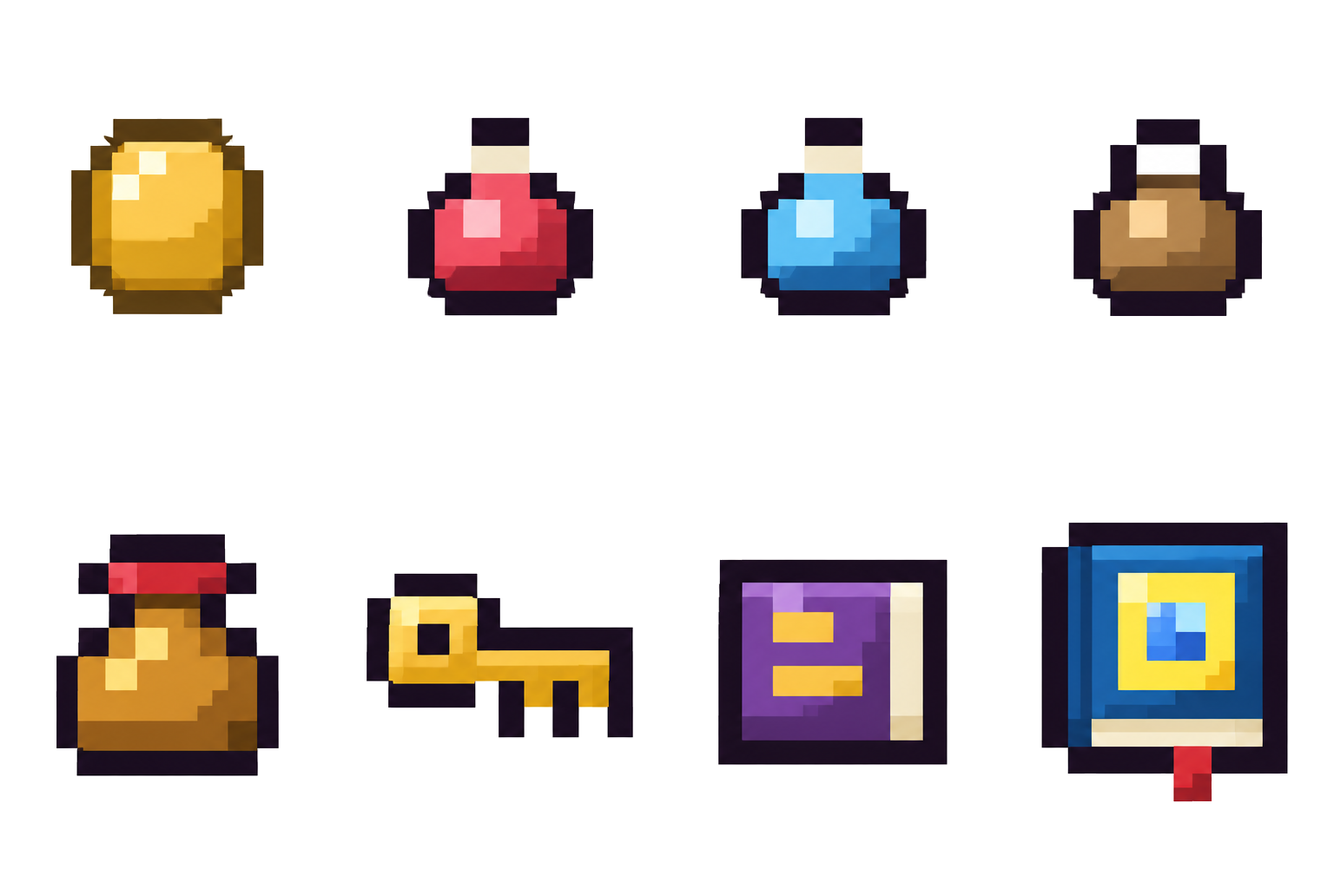
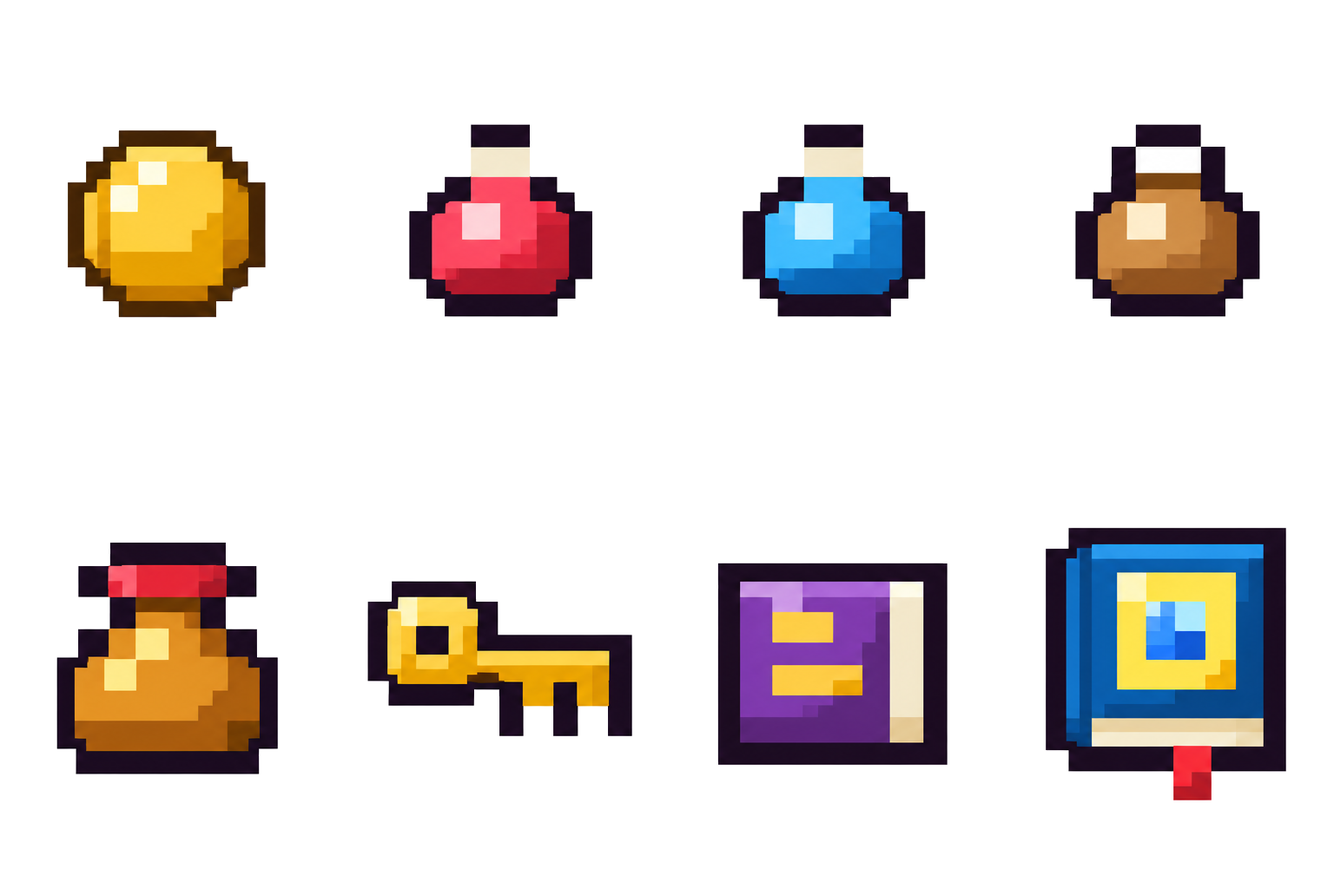
口袋地城：掉落物圖示重新美化，強化石／升級石縮成寶石大小，地上的裝備依類型顯示圖示

diff --git a/games/pocketdungeon/src/js/pd/itemSprites.js b/games/pocketdungeon/src/js/pd/itemSprites.js
@@ -10,4 +10,4 @@ import { unpack } from './spritePack.js';
  */
 export const ITEM_SPRITES = {};
 
-unpack(ITEM_SPRITES, {"coin":{"palette":{"a":"#5a3e13","b":"#705118","c":"#865e13","d":"#986511","e":"#a6700e","f":"#be8310","g":"#b28945","h":"#ce9415","i":"#bf992b","j":"#dba01e","k":"#e7b02d","l":"#fcc94f","m":"#fbd66d","n":"#fefbdd","o":"#1a1020"},"w":12,"h":12,"$r":[586,0,12,12]},"potion":{"palette":{"a":"#981f2f","b":"#b52839","c":"#bf2b3b","d":"#ce3142","e":"#db3b4b","f":"#e24252","g":"#f15162","h":"#f15566","i":"#f35c6e","j":"#fab7c1","k":"#fdbdc6","l":"#f1e5c9","o":"#1a1020"},"w":12,"h":12,"$r":[599,0,12,12]},"cure":{"palette":{"a":"#1b5e9b","b":"#1d65a5","c":"#297abb","d":"#2b82c2","e":"#3799d8","f":"#47ade9","g":"#4eb1e8","h":"#5dc0f5","i":"#64c5f5","j":"#baeafb","k":"#f2e7ca","l":"#cff2fe","o":"#1a1020"},"w":12,"h":12,"$r":[612,0,12,12]},"bag":{"palette":{"a":"#5c3f23","b":"#664627","c":"#734e2a","d":"#885e31","e":"#8b6134","f":"#986b3b","g":"#b5844d","h":"#b7874f","i":"#bc8c53","j":"#fcd399","k":"#fefefe","o":"#1a1020"},"w":12,"h":12,"$r":[625,0,12,12]},"pouch":{"palette":{"a":"#621520","b":"#4f3321","c":"#7f1d25","d":"#613b10","e":"#a11d27","f":"#d12b35","g":"#995f1b","h":"#e1424e","i":"#ee525f","j":"#d18d2a","k":"#f9d470","l":"#fdde79","o":"#1a1020"},"w":16,"h":16,"$r":[123,0,16,16]},"key":{"palette":{"a":"#d69a10","b":"#dea116","c":"#e2a419","d":"#e8ad24","e":"#f4bc38","f":"#f6c041","g":"#fac747","h":"#fac94c","i":"#fcd257","j":"#fce17a","k":"#fee684","l":"#ffefa0","m":"#fef2a8","o":"#1a1020"},"w":20,"h":12,"$r":[638,0,20,12]},"book":{"palette":{"a":"#572d72","b":"#643482","c":"#76409b","d":"#79429f","e":"#a166c9","f":"#a76ecd","g":"#c18edf","h":"#e3a61e","i":"#fac549","j":"#e1cc9c","k":"#f2e6c7","l":"#f5eace","m":"#fcf5dc","o":"#1a1020"},"w":16,"h":14,"$r":[327,0,16,14]},"skillbook":{"palette":{"a":"#12457d","b":"#a01e27","c":"#185ea3","d":"#246ec9","e":"#d82e37","f":"#3189dc","g":"#519afa","h":"#f1b91a","i":"#e6d5ac","j":"#ade5fd","k":"#fee748","l":"#f4e9cb","m":"#fef6ac","o":"#1a1020"},"w":18,"h":20,"$r":[83,0,18,20]},"shield":{"palette":{"a":"#312e41","b":"#8e0e28","c":"#4f4957","d":"#bc1f34","e":"#515b72","f":"#676f84","g":"#bd7914","h":"#949aad","i":"#abafc1","j":"#f6be3c","k":"#e4ebf3","l":"#fdf1a4","m":"#fdfdfe","o":"#1a1020"},"w":16,"h":16,"$r":[140,0,16,16]},"sword":{"palette":{"a":"#4b2619","b":"#3c3a4e","c":"#6b391d","d":"#4f5970","e":"#8a4c24","f":"#836e32","g":"#6a758d","h":"#ac711c","i":"#bc8027","j":"#929bae","k":"#f5bf3f","l":"#c1c6d1","m":"#eef3f8","o":"#1a1020"},"w":16,"h":16,"$r":[157,0,16,16]},"helmet":{"palette":{"a":"#4b5771","b":"#58657d","c":"#606b84","d":"#647088","e":"#929caf","f":"#959eb1","g":"#979fb2","h":"#dfe6ef","i":"#fcfcfd","j":"#fefefe","o":"#1a1020"},"w":16,"h":14,"$r":[344,0,16,14]},"armor":{"palette":{"a":"#8c0a26","b":"#b0182f","c":"#c42136","d":"#4a5771","e":"#66728a","f":"#f7445c","g":"#9199ad","h":"#98a1b4","i":"#b0bbca","j":"#bec6d3","k":"#d2dae5","l":"#e2eaf1","m":"#fcfbfc","o":"#1a1020"},"w":16,"h":14,"$r":[361,0,16,14]},"boots":{"palette":{"a":"#492418","b":"#53281d","c":"#5a2c19","d":"#6c3a1d","e":"#7d421f","f":"#904f24","g":"#975327","h":"#a25d2e","i":"#af6632","j":"#c2773c","k":"#d38c4a","l":"#edaf65","m":"#fddd87","o":"#1a1020"},"w":16,"h":12,"$r":[659,0,16,12]},"ring":{"palette":{"a":"#8c0a28","b":"#a00f2c","c":"#c6203b","d":"#b07116","e":"#bf7b25","f":"#fc5875","g":"#c98928","h":"#db9e26","i":"#ebbd56","j":"#f6be3d","k":"#fecdd9","l":"#fef2b0","m":"#fdfdfd","o":"#1a1020"},"w":12,"h":14,"$r":[378,0,12,14]},"dagger":{"palette":{"a":"#552919","b":"#7f441e","c":"#884a23","d":"#919aad","e":"#949db0","f":"#f5bc3c","g":"#f7bf3d","h":"#f9c443","i":"#fac94b","j":"#ebf1f7","k":"#eef3f9","l":"#f2f6fa","o":"#1a1020"},"w":16,"h":16,"$r":[174,0,16,16]},"daggers":{"palette":{"a":"#894a22","b":"#5b687f","c":"#63708a","d":"#79849c","e":"#959fb4","f":"#b7b6c0","g":"#f1b837","h":"#f7bf3d","i":"#cbcfda","j":"#e3e8ee","k":"#ebf1f7","l":"#f5f9fc","o":"#1a1020"},"w":16,"h":16,"$r":[191,0,16,16]},"fist":{"palette":{"a":"#933701","b":"#9f3e02","c":"#c75304","d":"#c95b08","e":"#e27f22","f":"#bc9971","g":"#fd8a19","h":"#dab486","i":"#fed663","j":"#fee782","k":"#fde4b5","l":"#faf0ca","m":"#fdfcde","o":"#1a1020"},"w":16,"h":16,"$r":[208,0,16,16]},"spear":{"palette":{"a":"#2a2633","b":"#940d07","c":"#7c380d","d":"#ba190f","e":"#904514","f":"#df2b1f","g":"#5d667b","h":"#b55f1f","i":"#c46f29","j":"#dd8937","k":"#95a0b5","l":"#b5c1d1","m":"#fdfefd","o":"#1a1020"},"w":16,"h":16,"$r":[225,0,16,16]},"bow":{"palette":{"a":"#a34f16","b":"#a75218","c":"#b15a1b","d":"#b65e1e","e":"#bf6520","f":"#ab8b67","g":"#ec9d45","h":"#cca77c","i":"#f0a248","j":"#d2af84","k":"#d4b188","l":"#fefefe","o":"#1a1020"},"w":16,"h":14,"$r":[391,0,16,14]},"staff":{"palette":{"a":"#6221a1","b":"#6523a5","c":"#773611","d":"#8c4215","e":"#944817","f":"#923ad3","g":"#a7541a","h":"#b25d1f","i":"#cd772c","j":"#c15ef8","k":"#c564fa","l":"#fdf4fe","o":"#1a1020"},"w":16,"h":16,"$r":[242,0,16,16]},"axe":{"palette":{"a":"#75360e","b":"#8a4113","c":"#535b6f","d":"#a95319","e":"#b45c1e","f":"#c06724","g":"#747e94","h":"#838ca1","i":"#8790a6","j":"#a8b4c5","k":"#adb9ca","l":"#fefdfe","o":"#1a1020"},"w":16,"h":16,"$r":[259,0,16,16]},"gift":{"palette":{"a":"#981605","b":"#ce2c15","c":"#d8341a","d":"#c46905","e":"#f74f34","f":"#fc6044","g":"#dd9309","h":"#f0aa0e","i":"#fed52a","j":"#fde449","k":"#fef06f","l":"#fdf79f","m":"#fdfaab","o":"#1a1020"},"w":16,"h":16,"$r":[276,0,16,16]},"shard":{"palette":{"a":"#034892","b":"#044e9f","c":"#096bc5","d":"#2172c8","e":"#8e6a44","f":"#47a5ef","g":"#b5926b","h":"#cda67a","i":"#dab586","j":"#f7ddb1","k":"#fee6b8","l":"#fefde8","o":"#1a1020"},"w":16,"h":24,"$r":[66,0,16,24]},"star":{"palette":{"a":"#712d03","b":"#7d3403","c":"#d07b03","d":"#b6871a","e":"#bd8f22","f":"#e38a09","g":"#bfc08b","h":"#febd32","i":"#cbc991","j":"#fec04f","k":"#fddf63","l":"#fefbb3","m":"#fefcc3","o":"#1a1020"},"w":16,"h":14,"$r":[408,0,16,14]},"iron":{"palette":{"a":"#575967","b":"#595b69","c":"#6a6c7b","d":"#6e6f7d","e":"#858796","f":"#888999","g":"#9797a5","h":"#9d9dab","i":"#aeaeb9","j":"#b1b1bc","k":"#e3e2e8","l":"#e5e5ea","o":"#1a1020"},"w":16,"h":12,"$r":[676,0,16,12]},"steel":{"palette":{"a":"#5c7195","b":"#5c7296","c":"#5d7397","d":"#a2b2ce","e":"#a4b5d0","f":"#a7b8d2","g":"#b9c8df","h":"#ced8e9","i":"#f8fbfe","o":"#1a1020"},"w":16,"h":12,"$r":[693,0,16,12]},"mithril":{"palette":{"a":"#1555cd","b":"#1558d3","c":"#165ad7","d":"#449cfd","e":"#479efe","f":"#62b2fe","g":"#66b4fe","h":"#c0e4fd","i":"#c8e9fd","j":"#cfebfd","k":"#dbf1fe","l":"#e0f3fe","o":"#1a1020"},"w":16,"h":14,"$r":[425,0,16,14]},"blueprint":{"palette":{"a":"#2253a7","b":"#2355aa","c":"#f42434","d":"#5a85c5","e":"#4b91f7","f":"#678fcc","g":"#5095f8","h":"#569bfb","i":"#789cd2","j":"#d3ebfc","k":"#d7edfd","l":"#dcf0fe","o":"#1a1020"},"w":20,"h":18,"$r":[102,0,20,18]},"seedBag":{"palette":{"a":"#168b44","b":"#945e1f","c":"#a16827","d":"#2fb85f","e":"#ba813d","f":"#3acc6e","g":"#c88f4b","h":"#d69e5b","i":"#54da82","j":"#ecbd82","k":"#fad49d","l":"#a8f9be","m":"#fddfad","o":"#1a1020"},"w":16,"h":16,"$r":[293,0,16,16]},"meat":{"palette":{"a":"#871e14","b":"#bd3625","c":"#c33827","d":"#d64531","e":"#dc4c37","f":"#ed614b","g":"#f5715a","h":"#fda58d","i":"#fdaf96","j":"#e3d4bf","k":"#f3e7d4","l":"#f9f1e4","m":"#fdf8ef","o":"#1a1020"},"w":16,"h":16,"$r":[310,0,16,16]},"ticket1":{"palette":{"a":"#ababb7","b":"#aeaeba","c":"#b6b6c2","d":"#c6c7d1","e":"#d1d1d9","f":"#d6d6de","g":"#e3e3ea","h":"#e8e8ed","i":"#eaeaef","j":"#f2f2f5","k":"#fdfdfd","o":"#1a1020"},"w":24,"h":14,"$r":[442,0,24,14]},"gem-atk":{"palette":{"a":"#870d20","b":"#b8182d","c":"#bd172d","d":"#d82036","e":"#db2036","f":"#de2238","g":"#f3263d","h":"#f42a41","i":"#fd5970","j":"#febdc8","k":"#fdc1cc","o":"#1a1020"},"w":16,"h":14,"$r":[467,0,16,14]},"gem-hp":{"palette":{"a":"#b71d5c","b":"#b81d5e","c":"#ba1e5d","d":"#f64891","e":"#f84b93","f":"#fb5299","g":"#fc549b","h":"#fc569d","i":"#fda6d0","j":"#fdaad1","k":"#feacd2","l":"#fcb2d4","o":"#1a1020"},"w":16,"h":14,"$r":[484,0,16,14]},"gem-def":{"palette":{"a":"#163e8f","b":"#153f93","c":"#173f90","d":"#2a6ddf","e":"#2c6fe0","f":"#3175e5","g":"#3277e7","h":"#3479e8","i":"#377ae8","j":"#9dcbfd","k":"#a0ccfd","l":"#a3cefd","o":"#1a1020"},"w":16,"h":14,"$r":[501,0,16,14]},"gem-spd":{"palette":{"a":"#9d7113","b":"#a17414","c":"#a37514","d":"#a57714","e":"#a87915","f":"#fdcc35","g":"#fdcc38","h":"#fece3a","i":"#fece3b","j":"#fef4aa","k":"#fef5ab","l":"#fef4b1","o":"#1a1020"},"w":16,"h":14,"$r":[518,0,16,14]},"gem-leech":{"palette":{"a":"#b01539","b":"#b21439","c":"#b11539","d":"#b2163a","e":"#fa4968","f":"#fc4c6a","g":"#fb4d6c","h":"#fa4f6c","i":"#fd4e6c","o":"#1a1020"},"w":16,"h":14,"$r":[535,0,16,14]},"gem-shield":{"palette":{"a":"#0184a3","b":"#0186a5","c":"#0187a7","d":"#2bd1e7","e":"#2cd3ea","f":"#3fdef1","g":"#42ddf0","h":"#42dff1","i":"#44e0f1","j":"#bafcfd","k":"#bdfcfd","o":"#1a1020"},"w":16,"h":14,"$r":[552,0,16,14]},"gem-ward":{"palette":{"a":"#5317b5","b":"#5318b3","c":"#5318b5","d":"#5518b7","e":"#9552ec","f":"#9454eb","g":"#a366f1","h":"#a469f2","i":"#a56af2","j":"#dfc6fc","k":"#e2c9fc","l":"#e3cbfc","o":"#1a1020"},"w":16,"h":14,"$r":[569,0,16,14]},"enhanceStone":{"palette":{"a":"#0623d3","b":"#223e7c","c":"#413854","d":"#206782","e":"#1f59fc","f":"#1d92fd","g":"#1ed1fd","h":"#76adfd","i":"#4bf9fd","j":"#a4d5fd","k":"#a9fdfd","o":"#1a1020"},"w":32,"h":32,"$r":[0,0,32,32]},"upgradeStone":{"palette":{"a":"#542b21","b":"#74321d","c":"#a33608","d":"#b43d01","e":"#bb4b05","f":"#cf5901","g":"#d15b01","h":"#ec9102","i":"#f6b632","j":"#febc02","k":"#fde956","l":"#fdfd82","o":"#1a1020"},"w":32,"h":32,"$r":[33,0,32,32]}}, new URL('./itemSprites.png', import.meta.url));
+unpack(ITEM_SPRITES, {"coin":{"palette":{"a":"#472605","b":"#512c05","c":"#6a3a02","d":"#8c4f03","e":"#b46d02","f":"#c47a01","g":"#ce8402","h":"#d38a02","i":"#df9704","j":"#e8a203","k":"#f3b11a","l":"#fece3e","m":"#fedd60","n":"#fefce3","o":"#1a1020"},"w":12,"h":12,"$r":[554,0,12,12]},"potion":{"palette":{"a":"#861324","b":"#af182c","c":"#c11c2e","d":"#de273d","e":"#f03047","f":"#dc394e","g":"#fc4861","h":"#fd4d64","i":"#fed2d8","j":"#f1e6cb","o":"#1a1020"},"w":12,"h":12,"$r":[567,0,12,12]},"cure":{"palette":{"a":"#113663","b":"#0961a9","c":"#0a63b1","d":"#246098","e":"#1074c5","f":"#1382d6","g":"#1994e5","h":"#40bcfc","i":"#4bc1fe","j":"#ede2c3","k":"#f2e6c9","l":"#d0f3fe","o":"#1a1020"},"w":12,"h":12,"$r":[580,0,12,12]},"bag":{"palette":{"a":"#7b4612","b":"#925320","c":"#9e5c23","d":"#a8652a","e":"#ae6b30","f":"#b36e30","g":"#c48444","h":"#d08d46","i":"#feecca","j":"#f7f6f6","k":"#fefefe","o":"#1a1020"},"w":12,"h":12,"$r":[593,0,12,12]},"pouch":{"palette":{"a":"#74212e","b":"#a71826","c":"#723c04","d":"#912b3f","e":"#c32030","f":"#874b13","g":"#e62737","h":"#a95c0e","i":"#f95a68","j":"#e39223","k":"#fee98a","o":"#1a1020"},"w":16,"h":16,"$r":[57,0,16,16]},"key":{"palette":{"a":"#302822","b":"#502906","c":"#433428","d":"#de9601","e":"#e9a302","f":"#edac11","g":"#f7c22d","h":"#f4cb41","i":"#fbd148","j":"#fed54d","k":"#f6eeb2","l":"#fdf4b8","o":"#1a1020"},"w":20,"h":12,"$r":[606,0,20,12]},"book":{"palette":{"a":"#5e277e","b":"#7937a3","c":"#803baf","d":"#715b4f","e":"#aa67d6","f":"#eca605","g":"#c996e4","h":"#e5ca95","i":"#fecd49","j":"#facbaf","k":"#f3e7cb","l":"#fdfae5","o":"#1a1020"},"w":16,"h":14,"$r":[295,0,16,14]},"skillbook":{"palette":{"a":"#1a2c57","b":"#084a8e","c":"#b71a26","d":"#0b61b5","e":"#f82c3a","f":"#2794f2","g":"#55aafc","h":"#f3b005","i":"#c3c48e","j":"#ebd6a4","k":"#b0e9fb","l":"#fde450","m":"#f6edc7","o":"#1a1020"},"w":18,"h":20,"$r":[17,0,18,20]},"shield":{"palette":{"a":"#352937","b":"#af061c","c":"#485b7e","d":"#f7162e","e":"#697a9e","f":"#ee8602","g":"#a3adc8","h":"#f2aac5","i":"#fdd332","j":"#c3d0e5","k":"#fdd387","l":"#f2f5f9","m":"#fdfcc5","o":"#1a1020"},"w":16,"h":16,"$r":[74,0,16,16]},"sword":{"palette":{"a":"#742702","b":"#4b3c1c","c":"#873518","d":"#b35316","e":"#596d92","f":"#6b7da1","g":"#8998b9","h":"#e98a08","i":"#e58930","j":"#a2afca","k":"#e4c22a","l":"#fcd537","m":"#f2f7fc","o":"#1a1020"},"w":16,"h":16,"$r":[91,0,16,16]},"helmet":{"palette":{"a":"#5a6586","b":"#56698d","c":"#5a6d92","d":"#5f7196","e":"#687a9e","f":"#6a7ca0","g":"#a1adc8","h":"#a3afc9","i":"#f0f6fd","j":"#f8f6f7","k":"#fefefe","o":"#1a1020"},"w":16,"h":14,"$r":[312,0,16,14]},"armor":{"palette":{"a":"#312331","b":"#ac0117","c":"#e70d25","d":"#485c7f","e":"#c62844","f":"#fc1c34","g":"#697a9d","h":"#8d96af","i":"#a3afca","j":"#f992a7","k":"#f2c0cd","l":"#d1d6df","m":"#f5f7fa","o":"#1a1020"},"w":16,"h":14,"$r":[329,0,16,14]},"boots":{"palette":{"a":"#561b02","b":"#6b2201","c":"#7b2c02","d":"#7a2b17","e":"#b85618","f":"#bd5819","g":"#d36a23","h":"#ef8736","i":"#fdad4f","j":"#f6ba60","k":"#fcc564","l":"#f8e99a","m":"#faf7af","o":"#1a1020"},"w":16,"h":12,"$r":[627,0,16,12]},"ring":{"palette":{"a":"#b3051b","b":"#dd0624","c":"#ce2830","d":"#f8223e","e":"#e58303","f":"#fb7f9c","g":"#f7a117","h":"#f9b55f","i":"#fdd434","j":"#fad599","k":"#fcdce7","l":"#fefcb8","m":"#fefefe","o":"#1a1020"},"w":12,"h":14,"$r":[346,0,12,14]},"dagger":{"palette":{"a":"#2d243f","b":"#742a05","c":"#b45517","d":"#bb5919","e":"#a2aec9","f":"#fed534","g":"#fdd738","h":"#fdd83e","i":"#f2f8fe","j":"#f4f9fe","o":"#1a1020"},"w":16,"h":16,"$r":[108,0,16,16]},"daggers":{"palette":{"a":"#595039","b":"#b55417","c":"#5e7296","d":"#687ba3","e":"#7889aa","f":"#93a9cd","g":"#a0b0cd","h":"#adbcd6","i":"#fcc227","j":"#fed637","k":"#f5dc49","l":"#eef5f8","m":"#f4f9fd","o":"#1a1020"},"w":16,"h":16,"$r":[125,0,16,16]},"fist":{"palette":{"a":"#722612","b":"#903101","c":"#a53a00","d":"#ce5101","e":"#f57f0f","f":"#fe8701","g":"#edbb7d","h":"#fee8af","i":"#fef381","j":"#fefcb8","k":"#fdfde7","o":"#1a1020"},"w":16,"h":16,"$r":[142,0,16,16]},"spear":{"palette":{"a":"#292b36","b":"#a20903","c":"#803204","d":"#ce160e","e":"#af2b2d","f":"#555e73","g":"#c45a11","h":"#fc3c32","i":"#e1761e","j":"#8d9bb2","k":"#c0cada","l":"#fbfbfb","o":"#1a1020"},"w":16,"h":16,"$r":[159,0,16,16]},"bow":{"palette":{"a":"#602513","b":"#802f0e","c":"#c4570b","d":"#d4640f","e":"#fca63e","f":"#daad79","g":"#c5c3c4","h":"#d3d4d5","i":"#fcd89f","j":"#fdfdfd","o":"#1a1020"},"w":16,"h":14,"$r":[359,0,16,14]},"staff":{"palette":{"a":"#5f14ab","b":"#861fd7","c":"#a4480d","d":"#c55a10","e":"#d06417","f":"#d76b16","g":"#e07219","h":"#d454fc","i":"#fefefe","o":"#1a1020"},"w":16,"h":16,"$r":[176,0,16,16]},"axe":{"palette":{"a":"#7e2f02","b":"#51596d","c":"#ac4c0b","d":"#c35a11","e":"#707c94","f":"#d26716","g":"#828ea6","h":"#b8c4d5","i":"#fefdfe","o":"#1a1020"},"w":16,"h":16,"$r":[193,0,16,16]},"gift":{"palette":{"a":"#880808","b":"#a90d06","c":"#8e3334","d":"#d92316","e":"#af6103","f":"#f75c52","g":"#d98113","h":"#fd7169","i":"#f89603","j":"#cbc696","k":"#feda06","l":"#fdfbb5","o":"#1a1020"},"w":16,"h":16,"$r":[210,0,16,16]},"shard":{"palette":{"a":"#004aa0","b":"#0179e2","c":"#885d33","d":"#cb975f","e":"#e5ae6f","f":"#eab475","g":"#86d8fd","h":"#ece0d2","i":"#fde3aa","j":"#f1e1ec","k":"#f7f6f3","l":"#fefef3","o":"#1a1020"},"w":16,"h":24,"$r":[0,0,16,24]},"star":{"palette":{"a":"#382423","b":"#601b0f","c":"#4e3e40","d":"#c96503","e":"#db6701","f":"#d57604","g":"#f08102","h":"#feb602","i":"#fed004","j":"#fee542","k":"#fefdc6","o":"#1a1020"},"w":16,"h":14,"$r":[376,0,16,14]},"iron":{"palette":{"a":"#575763","b":"#585865","c":"#6c6c79","d":"#8a8997","e":"#8d8c99","f":"#94939f","g":"#9f9da9","h":"#aba8b3","i":"#adabb6","j":"#eae9ed","k":"#efeef0","l":"#fefdfd","o":"#1a1020"},"w":16,"h":12,"$r":[644,0,16,12]},"steel":{"palette":{"a":"#5a7093","b":"#5b7295","c":"#5d7497","d":"#a9b9d4","e":"#abbcd5","f":"#b9c6dd","g":"#bac8de","h":"#c9d4e5","i":"#cbd6e7","j":"#fdfdfe","o":"#1a1020"},"w":16,"h":12,"$r":[661,0,16,12]},"mithril":{"palette":{"a":"#1053d1","b":"#0f55d7","c":"#0f58dc","d":"#3f9afd","e":"#429bfe","f":"#67b6fe","g":"#b8e2fd","h":"#bfe5fd","i":"#caebfe","j":"#d6f0fe","k":"#fdfdfe","o":"#1a1020"},"w":16,"h":14,"$r":[393,0,16,14]},"blueprint":{"palette":{"a":"#1e51ab","b":"#1f52ad","c":"#2054af","d":"#2058b6","e":"#fa2233","f":"#fc2432","g":"#4f9afc","h":"#539dfd","i":"#daf0fe","j":"#def2fe","k":"#e3f4fe","o":"#1a1020"},"w":20,"h":18,"$r":[36,0,20,18]},"seedBag":{"palette":{"a":"#0e7c40","b":"#9c6122","c":"#a16524","d":"#22b258","e":"#be7f3b","f":"#ca8b48","g":"#37d46f","h":"#da9d5a","i":"#e1a768","j":"#f6c488","k":"#fcd5a0","l":"#fcdaab","m":"#fdfdfd","o":"#1a1020"},"w":16,"h":16,"$r":[227,0,16,16]},"meat":{"palette":{"a":"#911d14","b":"#c93427","c":"#e44634","d":"#f15441","e":"#f25c49","f":"#fd8571","g":"#fe9b84","h":"#feb3a0","i":"#fdbbab","j":"#e4d2b9","k":"#f5e7d1","l":"#fbf1e3","m":"#fefdfd","o":"#1a1020"},"w":16,"h":16,"$r":[244,0,16,16]},"ticket1":{"palette":{"a":"#a9a7b3","b":"#aeacb7","c":"#b1b0bb","d":"#b6b4bf","e":"#bcbbc5","f":"#c0c0c9","g":"#c6c6cf","h":"#d0cfd7","i":"#e9e8ed","j":"#f1f0f3","k":"#fbfbfc","l":"#fefefe","o":"#1a1020"},"w":24,"h":14,"$r":[410,0,24,14]},"gem-atk":{"palette":{"a":"#8d0d21","b":"#920e21","c":"#c0172e","d":"#c6172d","e":"#dd2037","f":"#f6243c","g":"#f82940","h":"#fd5872","i":"#feb6c2","j":"#febbc6","k":"#fefdfe","o":"#1a1020"},"w":16,"h":14,"$r":[435,0,16,14]},"gem-hp":{"palette":{"a":"#c81a67","b":"#cd1c6a","c":"#fb3f97","d":"#fc4399","e":"#fd57a5","f":"#fc63b1","g":"#f77aba","h":"#ed8dc0","i":"#fe94cb","j":"#fda0d1","k":"#fdc6e6","l":"#fef0f9","m":"#fefefe","o":"#1a1020"},"w":16,"h":14,"$r":[452,0,16,14]},"gem-def":{"palette":{"a":"#0c419a","b":"#1d55b7","c":"#1e63d1","d":"#1768e6","e":"#2b7ef0","f":"#448be9","g":"#57a3fd","h":"#76bafd","i":"#7ebffe","j":"#b2dcfd","k":"#cbe9fe","l":"#d8effd","m":"#fdfcfc","o":"#1a1020"},"w":16,"h":14,"$r":[469,0,16,14]},"gem-spd":{"palette":{"a":"#a56f03","b":"#c68807","c":"#d8a00f","d":"#ebad08","e":"#eebc1e","f":"#fcd031","g":"#fedc40","h":"#fddf49","i":"#fee65b","j":"#fee868","k":"#fef297","l":"#fefbd4","m":"#fefefd","o":"#1a1020"},"w":16,"h":14,"$r":[486,0,16,14]},"gem-leech":{"palette":{"a":"#940829","b":"#9f0d2f","c":"#ab0c2e","d":"#ba1a3e","e":"#d01f42","f":"#da2b4c","g":"#e12e50","h":"#dc3454","i":"#f2486e","j":"#fdacbc","k":"#feb2c1","l":"#fefdfe","o":"#1a1020"},"w":16,"h":14,"$r":[503,0,16,14]},"gem-shield":{"palette":{"a":"#007b94","b":"#01b9d1","c":"#01bdd5","d":"#2ab9ce","e":"#2acce0","f":"#2fd3e6","g":"#37d7e9","h":"#5ce8f5","i":"#97f5fa","j":"#a5f8fd","k":"#b8fafd","l":"#e4fdfe","m":"#fefefe","o":"#1a1020"},"w":16,"h":14,"$r":[520,0,16,14]},"gem-ward":{"palette":{"a":"#4a0d9b","b":"#7e35cd","c":"#8c3ce2","d":"#9347e5","e":"#9d54e8","f":"#b676f3","g":"#c083f6","h":"#d1a1fa","i":"#d3a8f9","j":"#e1c0fb","k":"#e5cafc","l":"#f8f0fd","m":"#fefefe","o":"#1a1020"},"w":16,"h":14,"$r":[537,0,16,14]},"enhanceStone":{"palette":{"a":"#0030cd","b":"#004cee","c":"#0053f3","d":"#005ff5","e":"#008dfa","f":"#01aefd","g":"#00bdfe","h":"#38f6fe","i":"#51fbfd","j":"#5afcfd","k":"#7cfcfd","l":"#c3fdfd","m":"#fdfefe","o":"#1a1020"},"w":16,"h":16,"$r":[261,0,16,16]},"upgradeStone":{"palette":{"a":"#ca3501","b":"#e04c02","c":"#e55101","d":"#fe8501","e":"#febf02","f":"#fed04d","g":"#fae312","h":"#fee603","i":"#fee90f","j":"#fee81d","k":"#fdec81","l":"#fef673","m":"#fefefe","o":"#1a1020"},"w":16,"h":16,"$r":[278,0,16,16]}}, new URL('./itemSprites.png', import.meta.url));

diff --git a/games/pocketdungeon/src/js/app.js b/games/pocketdungeon/src/js/app.js
@@ -6,7 +6,7 @@ import { CLASSES, CLASS_KEYS, AREAS, AREA_KEYS, RARITIES, LIMITS, EQUIP_SLOTS, I
 import { xpToNext, characterStats, speedProfile, describeStats, sellPrice, enhanceCost, enhanceStones, upgradeTarget, upgradeCost, levelCap, gemName, gemEffect, parseGem, socketCount, statusText, gemBonus, itemStats, weaponHands, dungeonLevel, powerScore } from './pd/rules.js';
 import { World } from './pd/world.js';
 import { Renderer } from './pd/render.js';
-import { heroDataUrl, itemDataUrl, monsterDataUrl, itemArt } from './pd/sprites.js';
+import { heroDataUrl, itemDataUrl, monsterDataUrl, itemArt, itemIconName, SLOT_ICONS } from './pd/sprites.js';
 import * as village from './pd/village.js';
 import * as skills from './pd/skills.js';
 import * as home from './pd/home.js';
@@ -1892,16 +1892,6 @@ function bagPanel(ch) {
 }
 
 /**
- * 裝備的格子圖示：武器依類型（劍與騎士劍、斧、弓弩、法杖、匕首、拳套、長槍），其他依部位。
- * @param {object} item 裝備。
- * @returns {string} 圖示名稱（ITEM_ART 的鍵）。
- */
-function itemIconName(item) {
-  if (item.slot === 'weapon') return { 劍: 'sword', 斧: 'axe', 弓: 'bow', 弩: 'bow', 法杖: 'staff', 魔杖: 'staff', 匕首: 'dagger', 雙匕: 'daggers', 拳套: 'fist', 騎士劍: 'sword', 長槍: 'spear' }[item.type] || 'sword';
-  return SLOT_ICONS[item.slot];
-}
-
-/**
  * 一件裝備的背包格子：圖示、稀有度外框、強化值與鑲嵌的寶石色點；比目前穿的更好時高亮。
  * @param {object} it 裝備。
  * @param {string} key 點擊時的代碼。
@@ -2196,8 +2186,6 @@ async function openSharedCell(ch, id) {
 }
 
 /** 裝備欄格子的圖示（依部位）。 */
-const SLOT_ICONS = { weapon: 'sword', offhand: 'shield', helmet: 'helmet', armor: 'armor', boots: 'boots', accessory: 'ring' };
-
 /**
  * 人物裝備圖：角色在中間，頭盔、飾品 1、飾品 2 在上排，武器與副手在左右，鎧甲與鞋子在下排。
  * 拿雙手武器時副手格顯示「雙手武器佔用」。

diff --git a/games/pocketdungeon/src/js/pd/render.js b/games/pocketdungeon/src/js/pd/render.js
@@ -3,7 +3,7 @@
 
 import { AREAS, RARITIES, STATUS } from './data.js';
 import { WALL, STAIRS, SPIKES, walkable } from './dungeon.js';
-import { heroArt, monsterArt, itemArt } from './sprites.js';
+import { heroArt, monsterArt, itemArt, itemIconName } from './sprites.js';
 import { PROP_SPRITES } from './propSprites.js';
 import { DUNGEON_TILES } from './dungeonTiles.js';
 import { drawTerrain } from './terrain.js';
@@ -2469,7 +2469,7 @@ export class Renderer {
     }
     for (const it of world.pickups) {
       const bob = Math.round(Math.sin(world.time * 5 + it.x) * 1);
-      const name = it.kind === 'gem' ? `gem-${it.gem.split('-')[0]}` : it.kind === 'mat' ? it.mat : it.kind === 'homeMat' ? `hm-${it.mat}` : it.kind === 'stone' ? `${it.stone}Stone` : { gold: 'coin', potion: 'potion', cure: 'cure', bagExpand: 'pouch', book: 'book', skillBook: 'skillbook', recipe: 'blueprint', seed: 'seedBag', meat: 'meat' }[it.kind] || 'bag';
+      const name = it.kind === 'item' ? itemIconName(it.item) : it.kind === 'gem' ? `gem-${it.gem.split('-')[0]}` : it.kind === 'mat' ? it.mat : it.kind === 'homeMat' ? `hm-${it.mat}` : it.kind === 'stone' ? `${it.stone}Stone` : { gold: 'coin', potion: 'potion', cure: 'cure', bagExpand: 'pouch', book: 'book', skillBook: 'skillbook', recipe: 'blueprint', seed: 'seedBag', meat: 'meat' }[it.kind] || 'bag';
       const img = itemArt(name);
       // 高密度的道具圖（density）以實際大小（世界像素）繪製。
       const iw = (img.width / (img.density || 1)) * PICKUP_SCALE;

diff --git a/games/pocketdungeon/src/js/pd/sprites.js b/games/pocketdungeon/src/js/pd/sprites.js
@@ -847,6 +847,20 @@ function gemArt() {
   return out;
 }
 
+/** 各部位裝備的預設圖示（ITEM_ART 的鍵）。 */
+export const SLOT_ICONS = { weapon: 'sword', offhand: 'shield', helmet: 'helmet', armor: 'armor', boots: 'boots', accessory: 'ring' };
+
+/**
+ * 裝備的圖示：武器依類型（劍與騎士劍、斧、弓弩、法杖、匕首、拳套、長槍），其他依部位。
+ * 背包格子與地城掉在地上的裝備共用，讓不同裝備一眼就能分辨。
+ * @param {object} item 裝備。
+ * @returns {string} 圖示名稱（ITEM_ART 的鍵）。
+ */
+export function itemIconName(item) {
+  if (item.slot === 'weapon') return { 劍: 'sword', 斧: 'axe', 弓: 'bow', 弩: 'bow', 法杖: 'staff', 魔杖: 'staff', 匕首: 'dagger', 雙匕: 'daggers', 拳套: 'fist', 騎士劍: 'sword', 長槍: 'spear' }[item.type] || 'sword';
+  return SLOT_ICONS[item.slot] || 'bag';
+}
+
 /**
  * 取得道具圖。
  * @param {string} name 名稱。

diff --git a/games/pocketdungeon/spec.md b/games/pocketdungeon/spec.md
@@ -526,7 +526,7 @@
 ## 畫面與外觀
 
 - **圖資料格式**：所有由設計圖轉換的圖（角色、Boss、怪物、裝飾物、道具、地城圖塊、家園家具／圖示／作物／地板牆面）的像素存在與模組同名的 PNG 圖集（每像素為該圖調色盤的編號，8 位元灰階、無損），模組只保留調色盤、大小與圖集位置；`src/js/pd/spritePack.js` 在載入時還原成字元陣列（瀏覽器中以 DecompressionStream 自行解碼 PNG、不經過瀏覽器的影像解碼與色彩管理，app 啟動前等待解碼完成；Node 中同步解碼），還原結果與原本完全相同。
-- **復古像素風**：以 16 × 16 像素的圖塊繪製，地圖以 2 倍密度預先畫好（每層一次）：石磚有圓角、雙層明暗、細小斑點與少量細裂痕，牆面磚塊與牆頂石板有半階亮面，草原為不規則的草色斑塊、細草葉與四瓣小花，並依區域加上點綴（遺跡與沉沒神殿的石縫苔蘚與垂苔、冰晶要塞的冰霜與冰柱、熔岩礦坑／龍之峽谷／魔王城／深淵的發光縫、黃沙神殿的積沙、天空之城的大理石紋、機械工坊的鉚釘、沉沒神殿的積水反光），最後整張加上極輕微的石材顆粒。地圖裝飾物（木桶、木箱、大石、石像、戰利品、頭骨堆、掛旗、火把座、地上的骨頭與碎石、樓梯、地刺、寶箱）使用由 design/props/ 的原創設計圖轉換的高密度像素圖（`src/js/pd/propSprites.js`，密度 2）：大石、石像、碎石與樓梯為灰階圖，依區域的石柱色上色；掛旗布面染成區域的點綴色；地刺是凹進地面的鐵板（4 個孔位），升起時在孔位上畫 4 根伸出格子約半格的細長銀色尖刺；寶箱有關閉／打開兩格（正面視角、左右對稱，打開時箱蓋往正後方掀開）；火把的火焰仍每幀動態繪製在火把座上方。牆面另外會掛武器架、圓盾或鐵鏈；房間角落依位置放蜘蛛網（上方兩角）、火盆、陶罐、麻布袋、蠟燭或斷柱，約三分之一的大房間中央鋪地毯（只是裝飾，不影響行走）；火盆有動態火焰並照亮周圍（沉沒神殿不放火盆）。房間出入口（走廊寬 2 格，門口是牆上 2 格寬的缺口）：走廊從房間上方的牆進來的門口，畫往上的石階與嵌在牆裡的 3 格寬石拱門（門洞 2 格、兩側是打開的木門；門洞正上方的拱頂另外每幀畫在角色上方，角色從拱門下穿過，兩側石柱不會蓋住旁邊的角色；門口上方至少有 2 格走廊時才放拱門，兩個房間只隔一道薄牆時只畫石階）；從房間下方的牆出去的門口，畫往下的石階（越往下越暗）；石階拼成 2 格寬的一整片（只有最外側有石邊），以石階表現房間與走廊的高低落差（只是畫面，不影響行走）。長牆上偶爾嵌一扇封閉的鐵柵門（裝飾）。火光：牆面火把依石柱排列——每段連續牆面的石柱（兩端與長牆中間每 5 格一根）之間，火把固定放在相鄰兩根石柱的正中央（間距不到 2.5 格的不放），整面牆間距一致；牆上的掛旗、掛飾與大型擺設避開火把 1.25 格內；牆面兩端轉角石柱約一半的柱頂放一盆火；北側拱門兩旁的牆面掛火把；南側出口石階兩旁的牆緣各立一盆火（天空之城與沉沒神殿不放柱頂與石階旁的火）；這些火都會閃爍並照亮周圍。每個房間另外沿牆放 2～4 個小擺設（蠟燭、陶罐、麻布袋、頭骨堆、木桶），避開角落與門口。拱門、石階與鐵柵門為灰階圖，依區域石色上色。缺圖時沿用手寫的像素圖。配合約 1.4 格高的角色，裝飾物與寶箱以 1.4 倍顯示（火把座與蜘蛛網 1.3 倍、地毯 1.15 倍，對齊格子的樓梯、石階、拱門、地刺與鐵柵門維持 1 倍，底邊位置不變），地上掉落物也以 1.4 倍顯示。地板、牆面段、牆頂與石柱使用由 design/dungeon/ 的原創設計圖轉換的圖塊（`src/js/pd/dungeonTiles.js`，密度 2）：每個區域 4 種地板、3 種牆面段、2 種牆頂依位置固定挑選（變化之間的平均色對齊第 1 種，避免棋盤格），牆面往上加高時畫整段、否則只畫石唇與下半段，石柱的柱頭固定、柱身依牆高從下方截取；牆頂接到地板的外框照舊以程式繪製，牆頂改用 design/dungeon/rim-*.png 的牆緣圖塊（從上方看的厚磚緣，平均色對齊同區域的牆面），牆頂與牆緣另外壓暗 30%、降低彩度，與可行走的地板明顯區分；南側外牆（上方是地板、下方是地圖外）在牆緣下方補一段 7 像素的矮牆正面，牆看起來有厚度。地板使用第二版設計圖（design/dungeon/floors-*.png：大石板、細淡灰縫、平滑石面、低對比）。地板圖塊另外去掉孤立的單點雜色、把灰縫往石面平均色靠攏 60%，並疊上一層跨越數格的平滑明暗起伏（每 3 格一個隨機明暗點內插放大），地面看起來連續、不再一格一格。翠綠草原的地面維持程式繪製的草地（跨格相連的草色斑塊），樹籬牆使用圖塊。沒有圖塊時沿用程式繪製的細節石磚。外圍地形（`src/js/pd/terrain.js`）：牆緣以外、離地板 2 格以上的實心區域不再是一片背景色，而是一塊塊高低不一的方形石塊（3/4 俯視，看得到頂面與正面；一整格的大石塊與半格的小石塊各 4 種高度，以平滑雜訊分成片的高低），使用 design/dungeon/terrain-blocks.png 的灰階圖、依區域石色上色；離地板 3 格以上的部分依區域夾著液體：熔岩礦坑、龍之峽谷、魔王城為熔岩，沉沒神殿為海水，冰晶要塞為冰水，深淵為紫色虛空（液體紋理 design/dungeon/terrain-*.png，無縫平鋪）。熔岩與虛空在暗處仍然發亮（光照之後再疊一層自發光、亮度緩慢起伏）並照亮附近；翠綠草原外圍是樹林（闊葉樹與松樹），天空之城外圍是雲海。靠近牆緣的石塊壓低、牆面上方那一格只畫上半部，不會蓋住牆緣、南側矮牆與往上加高的牆面。只影響畫面，不影響行走。地城掉落物與介面的道具圖示使用 design/items/ 轉換的 2 倍密度圖（`src/js/pd/itemSprites.js`），入場卷以灰階圖依等級上色，家園材料掉落物沿用家園圖示。一般怪物使用高密度的 4 格動作圖（由 design/monsters/ 的原創設計圖轉換，存在 `src/js/pd/monsterSprites.js`，顯示密度與角色相同，腳對齊影子中心）：待機圖顯示高度依體型分為小 28、中 34（與角色等高）、大 40、巨 46（雪怪）圖像素（以 2 倍解析度轉換，實際是 56～92 像素、密度 4，顯示大小不變、細節加倍）；4 格為待機 A、待機 B（平常每 0.4 秒交替）、蓄力（預警、衝刺蓄力、瞄準、施法、鑽地前）、出招（衝刺、俯衝中，或離開蓄力、射出投射物後 0.3 秒），面向玩家時左右翻轉；菁英、分裂小怪的縮放與半透明怪物的透明度照舊。沒有動作圖的怪物沿用手寫像素圖，在遊戲中以程式精緻化成 2 倍密度（Scale2x 補平斜邊、輪廓外框變細為 1 像素、左上提亮右下壓暗的光影）。Boss 也是高密度像素圖（由 design/bosses/ 的原創設計圖轉換，存在 `src/js/pd/bossSprites.js`，約 2.5 格高，以 2 倍解析度轉換（待機圖 120 像素、密度 4），顯示密度與角色相同，腳對齊影子中心）：4 格動作為待機 A、待機 B（平常每 0.5 秒交替）、蓄力（預警、瞄準、施法、回復中）、出招（離開蓄力或射出投射物後 0.3 秒），面向玩家時左右翻轉。角色為高密度的像素圖（角色本體約 34 格高，地城中約以 1.45 倍密度顯示、約 1.4 格高（怪物與 Boss 同比例），實際密度依畫面放大倍率取能讓每個圖像素佔整數個螢幕像素的值，例如放大 6 倍時為 1.5、7 倍時為 1.4；只影響畫面，碰撞範圍不變；家園中以 2 倍密度顯示；由原創的 4 方向攻擊動作設計圖以 2 倍解析度轉換而來（待機圖 68 像素、密度 4，顯示大小不變；走路循環的位移也乘 2），存在 `src/js/pd/heroSprites.js`）。每個職業有正面（朝下）、背面（朝上）、側面（面向右，面向左時翻轉）三個方向，各 6 格（騎士 8 格）攻擊動畫，第 1 格同時是該方向的待機圖；走路為 4 格循環（每秒 8 格），參考走路動作圖由待機圖產生、沿用角色本身的造型與配色：正面與背面為左腳抬起 → 身體上浮 1 格 → 右腳抬起 → 身體上浮，側面為前後腳跨步 → 收腳上浮 → 前後交換 → 收腳上浮。介面頭像使用正面待機圖。整數倍放大且不平滑（`image-rendering: pixelated`），畫面內部解析度固定，依螢幕大小整數縮放。
+- **復古像素風**：以 16 × 16 像素的圖塊繪製，地圖以 2 倍密度預先畫好（每層一次）：石磚有圓角、雙層明暗、細小斑點與少量細裂痕，牆面磚塊與牆頂石板有半階亮面，草原為不規則的草色斑塊、細草葉與四瓣小花，並依區域加上點綴（遺跡與沉沒神殿的石縫苔蘚與垂苔、冰晶要塞的冰霜與冰柱、熔岩礦坑／龍之峽谷／魔王城／深淵的發光縫、黃沙神殿的積沙、天空之城的大理石紋、機械工坊的鉚釘、沉沒神殿的積水反光），最後整張加上極輕微的石材顆粒。地圖裝飾物（木桶、木箱、大石、石像、戰利品、頭骨堆、掛旗、火把座、地上的骨頭與碎石、樓梯、地刺、寶箱）使用由 design/props/ 的原創設計圖轉換的高密度像素圖（`src/js/pd/propSprites.js`，密度 2）：大石、石像、碎石與樓梯為灰階圖，依區域的石柱色上色；掛旗布面染成區域的點綴色；地刺是凹進地面的鐵板（4 個孔位），升起時在孔位上畫 4 根伸出格子約半格的細長銀色尖刺；寶箱有關閉／打開兩格（正面視角、左右對稱，打開時箱蓋往正後方掀開）；火把的火焰仍每幀動態繪製在火把座上方。牆面另外會掛武器架、圓盾或鐵鏈；房間角落依位置放蜘蛛網（上方兩角）、火盆、陶罐、麻布袋、蠟燭或斷柱，約三分之一的大房間中央鋪地毯（只是裝飾，不影響行走）；火盆有動態火焰並照亮周圍（沉沒神殿不放火盆）。房間出入口（走廊寬 2 格，門口是牆上 2 格寬的缺口）：走廊從房間上方的牆進來的門口，畫往上的石階與嵌在牆裡的 3 格寬石拱門（門洞 2 格、兩側是打開的木門；門洞正上方的拱頂另外每幀畫在角色上方，角色從拱門下穿過，兩側石柱不會蓋住旁邊的角色；門口上方至少有 2 格走廊時才放拱門，兩個房間只隔一道薄牆時只畫石階）；從房間下方的牆出去的門口，畫往下的石階（越往下越暗）；石階拼成 2 格寬的一整片（只有最外側有石邊），以石階表現房間與走廊的高低落差（只是畫面，不影響行走）。長牆上偶爾嵌一扇封閉的鐵柵門（裝飾）。火光：牆面火把依石柱排列——每段連續牆面的石柱（兩端與長牆中間每 5 格一根）之間，火把固定放在相鄰兩根石柱的正中央（間距不到 2.5 格的不放），整面牆間距一致；牆上的掛旗、掛飾與大型擺設避開火把 1.25 格內；牆面兩端轉角石柱約一半的柱頂放一盆火；北側拱門兩旁的牆面掛火把；南側出口石階兩旁的牆緣各立一盆火（天空之城與沉沒神殿不放柱頂與石階旁的火）；這些火都會閃爍並照亮周圍。每個房間另外沿牆放 2～4 個小擺設（蠟燭、陶罐、麻布袋、頭骨堆、木桶），避開角落與門口。拱門、石階與鐵柵門為灰階圖，依區域石色上色。缺圖時沿用手寫的像素圖。配合約 1.4 格高的角色，裝飾物與寶箱以 1.4 倍顯示（火把座與蜘蛛網 1.3 倍、地毯 1.15 倍，對齊格子的樓梯、石階、拱門、地刺與鐵柵門維持 1 倍，底邊位置不變），地上掉落物也以 1.4 倍顯示。地板、牆面段、牆頂與石柱使用由 design/dungeon/ 的原創設計圖轉換的圖塊（`src/js/pd/dungeonTiles.js`，密度 2）：每個區域 4 種地板、3 種牆面段、2 種牆頂依位置固定挑選（變化之間的平均色對齊第 1 種，避免棋盤格），牆面往上加高時畫整段、否則只畫石唇與下半段，石柱的柱頭固定、柱身依牆高從下方截取；牆頂接到地板的外框照舊以程式繪製，牆頂改用 design/dungeon/rim-*.png 的牆緣圖塊（從上方看的厚磚緣，平均色對齊同區域的牆面），牆頂與牆緣另外壓暗 30%、降低彩度，與可行走的地板明顯區分；南側外牆（上方是地板、下方是地圖外）在牆緣下方補一段 7 像素的矮牆正面，牆看起來有厚度。地板使用第二版設計圖（design/dungeon/floors-*.png：大石板、細淡灰縫、平滑石面、低對比）。地板圖塊另外去掉孤立的單點雜色、把灰縫往石面平均色靠攏 60%，並疊上一層跨越數格的平滑明暗起伏（每 3 格一個隨機明暗點內插放大），地面看起來連續、不再一格一格。翠綠草原的地面維持程式繪製的草地（跨格相連的草色斑塊），樹籬牆使用圖塊。沒有圖塊時沿用程式繪製的細節石磚。外圍地形（`src/js/pd/terrain.js`）：牆緣以外、離地板 2 格以上的實心區域不再是一片背景色，而是一塊塊高低不一的方形石塊（3/4 俯視，看得到頂面與正面；一整格的大石塊與半格的小石塊各 4 種高度，以平滑雜訊分成片的高低），使用 design/dungeon/terrain-blocks.png 的灰階圖、依區域石色上色；離地板 3 格以上的部分依區域夾著液體：熔岩礦坑、龍之峽谷、魔王城為熔岩，沉沒神殿為海水，冰晶要塞為冰水，深淵為紫色虛空（液體紋理 design/dungeon/terrain-*.png，無縫平鋪）。熔岩與虛空在暗處仍然發亮（光照之後再疊一層自發光、亮度緩慢起伏）並照亮附近；翠綠草原外圍是樹林（闊葉樹與松樹），天空之城外圍是雲海。靠近牆緣的石塊壓低、牆面上方那一格只畫上半部，不會蓋住牆緣、南側矮牆與往上加高的牆面。只影響畫面，不影響行走。地城掉落物與介面的道具圖示使用 design/items/ 轉換的 2 倍密度圖（`src/js/pd/itemSprites.js`），入場卷以灰階圖依等級上色，家園材料掉落物沿用家園圖示；地上的裝備與背包格子一樣依類型顯示圖示（武器依類型：劍、斧、弓、法杖、匕首、雙匕、拳套、長槍，其他依部位：盾、頭盔、鎧甲、鞋子、戒指），強化石與升級石的大小與寶石相同。一般怪物使用高密度的 4 格動作圖（由 design/monsters/ 的原創設計圖轉換，存在 `src/js/pd/monsterSprites.js`，顯示密度與角色相同，腳對齊影子中心）：待機圖顯示高度依體型分為小 28、中 34（與角色等高）、大 40、巨 46（雪怪）圖像素（以 2 倍解析度轉換，實際是 56～92 像素、密度 4，顯示大小不變、細節加倍）；4 格為待機 A、待機 B（平常每 0.4 秒交替）、蓄力（預警、衝刺蓄力、瞄準、施法、鑽地前）、出招（衝刺、俯衝中，或離開蓄力、射出投射物後 0.3 秒），面向玩家時左右翻轉；菁英、分裂小怪的縮放與半透明怪物的透明度照舊。沒有動作圖的怪物沿用手寫像素圖，在遊戲中以程式精緻化成 2 倍密度（Scale2x 補平斜邊、輪廓外框變細為 1 像素、左上提亮右下壓暗的光影）。Boss 也是高密度像素圖（由 design/bosses/ 的原創設計圖轉換，存在 `src/js/pd/bossSprites.js`，約 2.5 格高，以 2 倍解析度轉換（待機圖 120 像素、密度 4），顯示密度與角色相同，腳對齊影子中心）：4 格動作為待機 A、待機 B（平常每 0.5 秒交替）、蓄力（預警、瞄準、施法、回復中）、出招（離開蓄力或射出投射物後 0.3 秒），面向玩家時左右翻轉。角色為高密度的像素圖（角色本體約 34 格高，地城中約以 1.45 倍密度顯示、約 1.4 格高（怪物與 Boss 同比例），實際密度依畫面放大倍率取能讓每個圖像素佔整數個螢幕像素的值，例如放大 6 倍時為 1.5、7 倍時為 1.4；只影響畫面，碰撞範圍不變；家園中以 2 倍密度顯示；由原創的 4 方向攻擊動作設計圖以 2 倍解析度轉換而來（待機圖 68 像素、密度 4，顯示大小不變；走路循環的位移也乘 2），存在 `src/js/pd/heroSprites.js`）。每個職業有正面（朝下）、背面（朝上）、側面（面向右，面向左時翻轉）三個方向，各 6 格（騎士 8 格）攻擊動畫，第 1 格同時是該方向的待機圖；走路為 4 格循環（每秒 8 格），參考走路動作圖由待機圖產生、沿用角色本身的造型與配色：正面與背面為左腳抬起 → 身體上浮 1 格 → 右腳抬起 → 身體上浮，側面為前後腳跨步 → 收腳上浮 → 前後交換 → 收腳上浮。介面頭像使用正面待機圖。整數倍放大且不平滑（`image-rendering: pixelated`），畫面內部解析度固定，依螢幕大小整數縮放。
 - 所有像素圖由專案自行繪製（以程式中的像素資料或專案內的 PNG 圖集），不使用外部素材；角色有待機、移動、攻擊、受傷 4 種動作，各 2～4 幀。
 - **地城場景**（2.5D 石造地城，色調取自各區域）：
   - 牆面（下方是地板的牆）上緣為牆頂石唇，下面是交錯的大磚塊，每塊磚有上左高光、下右陰影與少量裂痕，磚面顏色往該區域的牆頂色混合以保留色相；上方也是牆時，牆面往上加高半格，牆看起來更高。草原區域的牆是樹籬，改畫葉叢。
